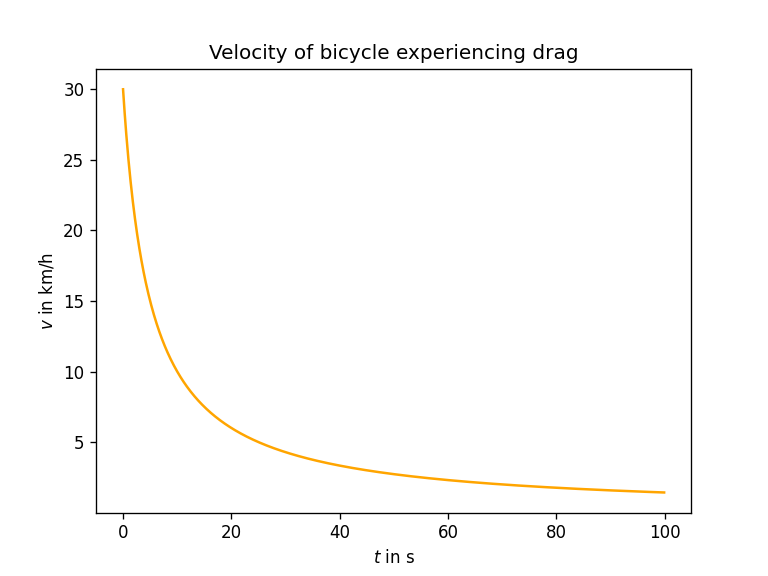
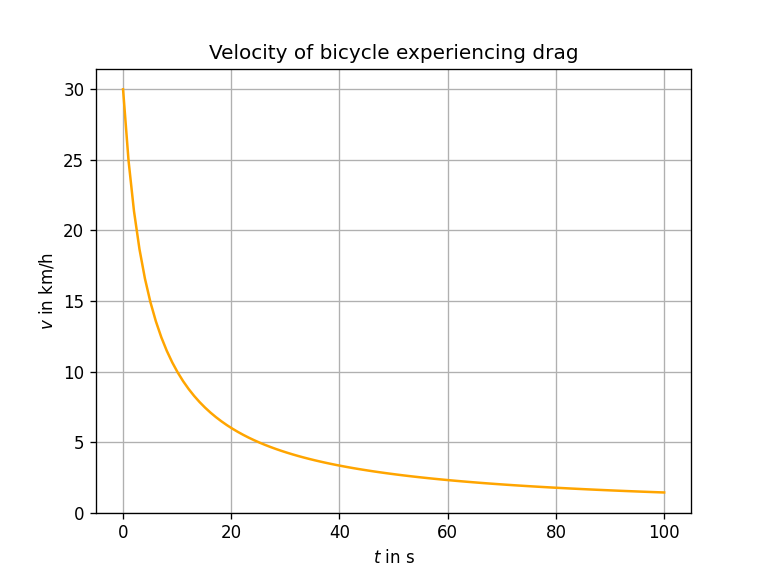
new version bicylce

diff --git a/bicycle.py b/bicycle.py
@@ -5,15 +5,15 @@ import numpy as np
 import matplotlib.pyplot as plt
 
 # initialization of values; user input
-v_0 = 30 # starting velocity in km/h
-m = 75 # mass in kg
-c = 0.5 # drag coefficient
+velocity_0 = 30 # starting velocity in km/h
+mass = 75 # in kg
+coefficient_drag = 0.5 # drag coefficient
 
 # initialization of differential equation, given
 def v(t):
-    return m/(c*t+(m/v_0))
+    return (mass*velocity_0)/(coefficient_drag*t*velocity_0+mass)
 
-t_list = np.arange(0, 100, .1)
+t_list = np.linspace(0, 100, 100)
 
 v_list = v(t_list)
 
@@ -23,6 +23,7 @@ plt.plot(t_list, v_list, color='orange')
 plt.xlabel('$t$ in s')
 plt.ylabel('$v$ in km/h')
 plt.title('Velocity of bicycle experiencing drag')
+plt.grid(True)
 
 plt.savefig('plots_pngs/Bicycle_drag.png') # uncomment to save, maybe edit file path
 
